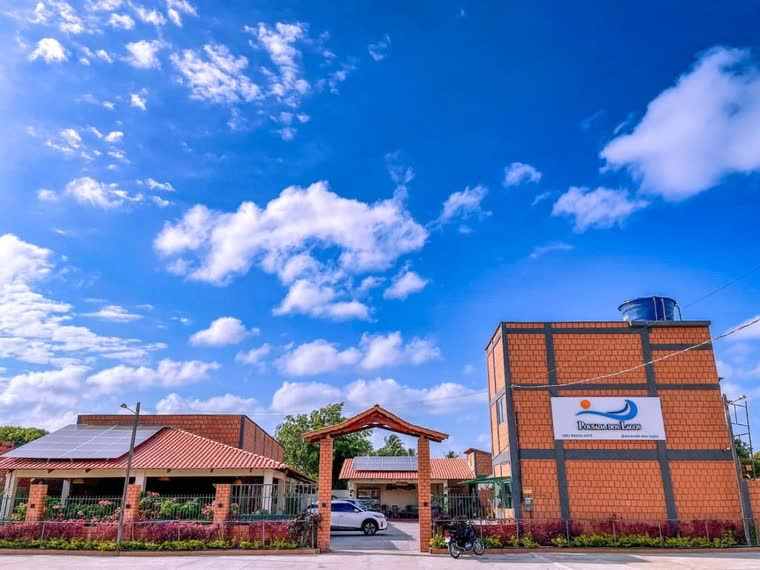
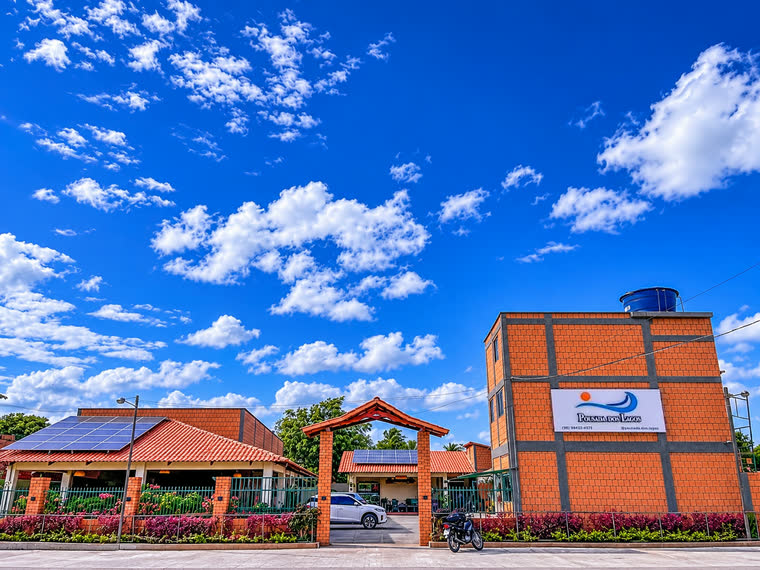
Capa com a foto nítida da fachada e a placa verdadeira
- Nova foto da fachada (1448px, mais nítida no PC) na capa, na troca de
  fotos e na imagem de compartilhamento
- A versão melhorada por IA tinha inventado o texto da placa ("Pocsna dos
  Lagos / Hotel Restaurante"); a placa real da foto original foi encaixada
  por cima
- Versões leves: 540 KB no PC e 216 KB no celular

diff --git a/index.html b/index.html
@@ -19,8 +19,8 @@
   <meta property="og:title" content="Pousada dos Lagos | Pousada em Paulino Neves - Lençóis Maranhenses">
   <meta property="og:description" content="Conforto e aconchego em Paulino Neves (MA). Café da manhã incluso, aceita pets, estacionamento grátis. Diárias a partir de R$ 190.">
   <meta property="og:image" content="img/fachada.jpg">
-  <meta property="og:image:width" content="1024">
-  <meta property="og:image:height" content="768">
+  <meta property="og:image:width" content="1448">
+  <meta property="og:image:height" content="1086">
   <meta property="og:image:alt" content="Fachada da Pousada dos Lagos em Paulino Neves - MA">
   <meta property="og:type" content="website">
   <meta property="og:locale" content="pt_BR">
@@ -35,14 +35,14 @@
   <link rel="apple-touch-icon" href="img/icone-180.png">
 
   <!-- Carrega primeiro a imagem da capa (deixa o site mais rápido para o Google) -->
-  <link rel="preload" as="image" href="img/capa-fachada-hd.jpg" media="(min-width: 1025px)">
-  <link rel="preload" as="image" href="img/capa-fachada-celular-hd.jpg" media="(max-width: 1024px)">
+  <link rel="preload" as="image" href="img/capa-fachada-v3.jpg" media="(min-width: 1025px)">
+  <link rel="preload" as="image" href="img/capa-fachada-celular-v3.jpg" media="(max-width: 1024px)">
 
   <link rel="preconnect" href="https://fonts.googleapis.com">
   <link rel="preconnect" href="https://fonts.gstatic.com" crossorigin>
   <link href="https://fonts.googleapis.com/css2?family=GFS+Neohellenic:wght@400;700&family=Fahkwang:wght@500;600&family=Montserrat:wght@300;400;500&family=Rubik:wght@400;500&display=swap" rel="stylesheet">
-  <link rel="stylesheet" href="css/style.css?v=20261102f">
-  <script src="js/anim-init.js?v=20261102f"></script>
+  <link rel="stylesheet" href="css/style.css?v=20261102g">
+  <script src="js/anim-init.js?v=20261102g"></script>
 
   <!-- Dados para o Google entender que é uma hospedagem -->
   <script type="application/ld+json">
@@ -220,8 +220,8 @@
   <!-- ===== CAPA COM A FOTO DA FACHADA ===== -->
   <section class="capa" id="inicio">
     <!-- Celular e tablet baixam a versão menor; notebook e PC a versão grande -->
-    <img class="capa__foto" src="img/capa-fachada-hd.jpg"
-      srcset="img/capa-fachada-celular-hd.jpg 1024w, img/capa-fachada-hd.jpg 1920w" sizes="100vw"
+    <img class="capa__foto" src="img/capa-fachada-v3.jpg"
+      srcset="img/capa-fachada-celular-v3.jpg 1024w, img/capa-fachada-v3.jpg 1920w" sizes="100vw"
       width="1920" height="1440" fetchpriority="high"
       alt="Fachada da Pousada dos Lagos em Paulino Neves - MA, com o portão de entrada e a placa da pousada">
     <div class="capa__escuro"></div>
@@ -409,7 +409,7 @@
         <img src="img/patio.jpg" width="1600" height="1216" alt="Pátio, corredor dos quartos e salão do café" class="ativo" loading="lazy">
         <img src="img/quiosque.jpg" width="1600" height="1200" alt="Quiosque de palha e gramado da Pousada dos Lagos, pousada em Paulino Neves" loading="lazy">
         <img src="img/varanda-redes.jpg" width="1440" height="960" alt="Varanda dos quartos com rede" loading="lazy">
-        <img src="img/fachada.jpg" width="1024" height="768" alt="Fachada da Pousada dos Lagos em Paulino Neves - MA" loading="lazy" class="foco-baixo">
+        <img src="img/fachada.jpg" width="1448" height="1086" alt="Fachada da Pousada dos Lagos em Paulino Neves - MA" loading="lazy" class="foco-baixo">
         <button class="seta seta--esq" aria-label="Foto anterior">‹</button>
         <button class="seta seta--dir" aria-label="Próxima foto">›</button>
       </div>
@@ -596,6 +596,6 @@
     <img alt="">
   </div>
 
-  <script src="js/script.js?v=20261102f"></script>
+  <script src="js/script.js?v=20261102g"></script>
 </body>
 </html>
